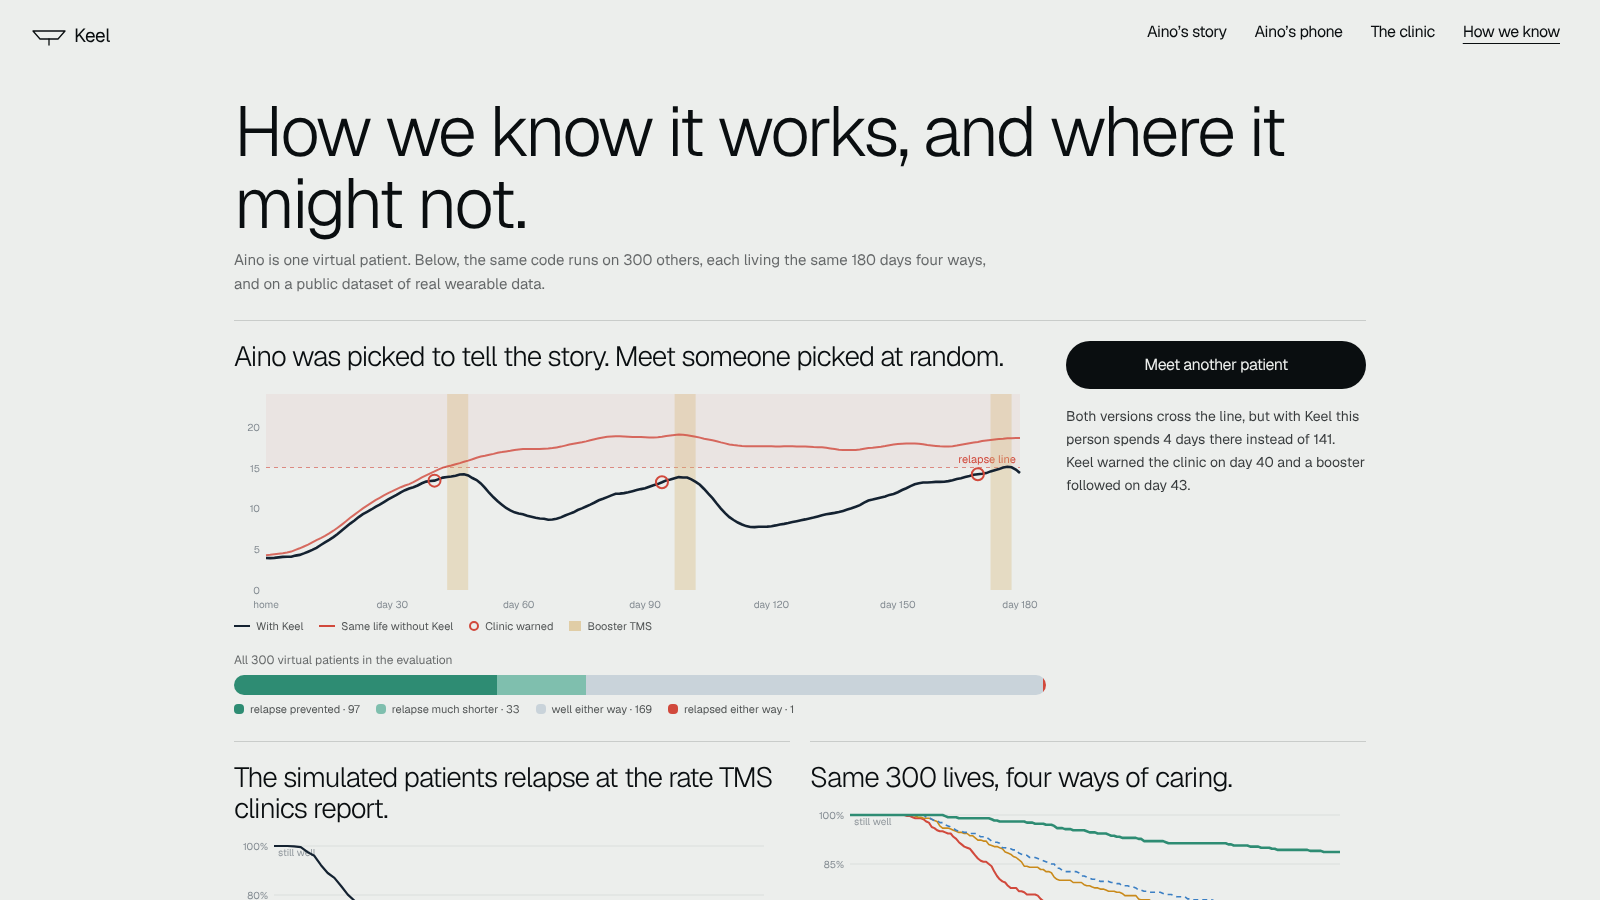
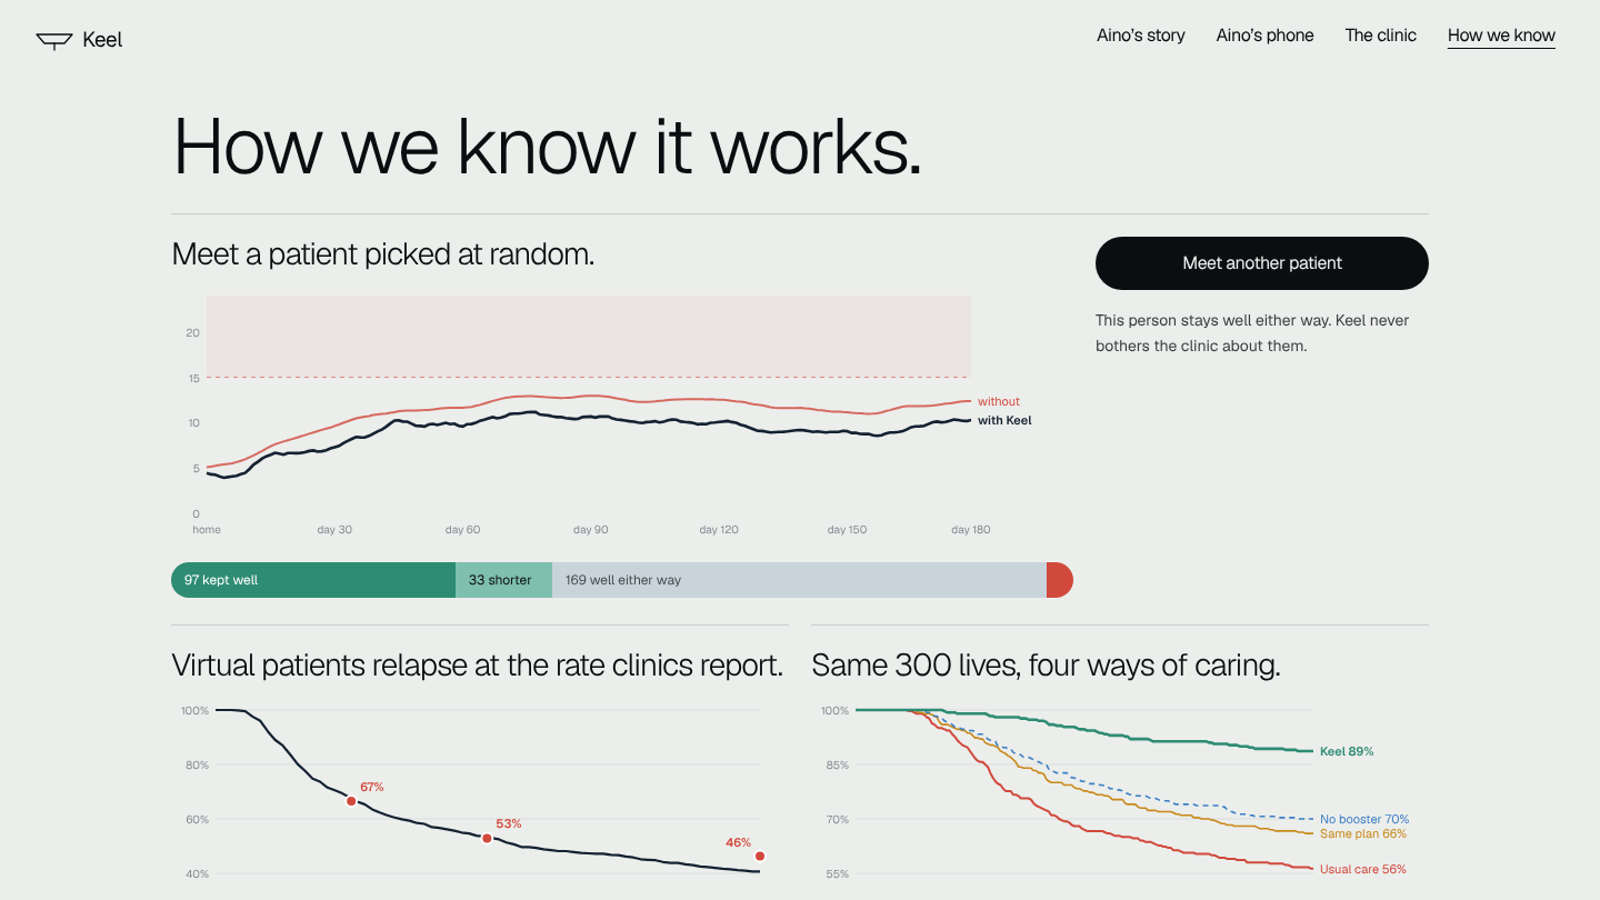
How we know: drop notes, legends and captions; label lines directly
Claude-Session: https://claude.ai/code/session_01YX7ZhujLr8GwJBjNSDXsE6

diff --git a/frontend/src/proof/ProofPage.tsx b/frontend/src/proof/ProofPage.tsx
@@ -30,72 +30,72 @@ export default function ProofPage() {
   const p = ev.policies
   return (
     <div className="mx-auto max-w-[1180px] px-6 py-8">
-      <h1 className="font-serif text-[clamp(2.4rem,5vw,4.4rem)] leading-[1.02]">How we know it works, and where it might not.</h1>
-      <p className="mt-2 max-w-[48rem] text-[15px] leading-relaxed text-ink/60">
-        Aino is one virtual patient. Below, the same code runs on {ev.n_patients} others, each living the same {ev.days} days
-        four ways, and on a public dataset of real wearable data.
-      </p>
+      <h1 className="font-serif text-[clamp(2.4rem,5vw,4.4rem)] leading-[1.02]">How we know it works.</h1>
 
       <RollAPatient outcomes={e.outcomes} n={ev.n_patients} />
 
       <div className="mt-6 grid grid-cols-1 gap-5 lg:grid-cols-2">
-        <Card title="The simulated patients relapse at the rate TMS clinics report."
-          note={`With no home support, the virtual cohort is fit to the rTMS durability meta-analysis (${e.calibration.source.split(' (')[0]}). Dots are the published figures. The model matches at 3 and 6 months and is slightly too pessimistic at 12; the demo only uses the first 6.`}>
+        <Card title="Virtual patients relapse at the rate clinics report.">
           <Chart xMax={365} yMin={0.2} yMax={1} yFmt={(v) => `${Math.round(v * 100)}%`} xTicks={[0, 91, 182, 273, 365]} xFmt={(d) => (d === 0 ? 'discharge' : `${Math.round(d / 30.4)} mo`)}
             series={[{ xs: e.calibration.days, ys: e.calibration.model, color: INK, width: 2.2, label: 'Virtual patients, no support' }]}
             dots={e.calibration.published.slice(1).map((d) => ({ x: d.day, y: d.value, color: STORM, label: `${Math.round(d.value * 100)}%` }))}
-            yLabel="still well" />
+            endLabels />
         </Card>
 
-        <Card title={`Same ${ev.n_patients} lives, four ways of caring.`}
-          note="Each virtual patient meets the same stress on the same days in every version. Most of Keel’s gain comes from timing booster TMS, not from the habits plan alone.">
+        <Card title={`Same ${ev.n_patients} lives, four ways of caring.`}>
           <Chart xMax={180} yMin={0.4} yMax={1} yFmt={(v) => `${Math.round(v * 100)}%`} xTicks={[0, 30, 60, 90, 120, 150, 180]} xFmt={(d) => `day ${d}`}
             series={[
-              { xs: e.days, ys: e.survival.none, color: STORM, width: 2, label: `Usual care · ${Math.round(p.none.relapse_free_180 * 100)}%` },
-              { xs: e.days, ys: e.survival.fixed, color: SQUALL, width: 1.6, label: `Same plan for all · ${Math.round(p.fixed.relapse_free_180 * 100)}%` },
-              { xs: e.days, ys: e.survival.keel_plan, color: BODY, width: 1.6, dash: '5 4', label: `Keel plan, no booster · ${Math.round(p.keel_plan.relapse_free_180 * 100)}%` },
-              { xs: e.days, ys: e.survival.keel, color: CALM, width: 2.6, label: `Keel · ${Math.round(p.keel.relapse_free_180 * 100)}%` },
-            ]} yLabel="still well" legend />
+              { xs: e.days, ys: e.survival.none, color: STORM, width: 2, label: `Usual care ${Math.round(p.none.relapse_free_180 * 100)}%` },
+              { xs: e.days, ys: e.survival.fixed, color: SQUALL, width: 1.6, label: `Same plan ${Math.round(p.fixed.relapse_free_180 * 100)}%` },
+              { xs: e.days, ys: e.survival.keel_plan, color: BODY, width: 1.6, dash: '5 4', label: `No booster ${Math.round(p.keel_plan.relapse_free_180 * 100)}%` },
+              { xs: e.days, ys: e.survival.keel, color: CALM, width: 2.6, label: `Keel ${Math.round(p.keel.relapse_free_180 * 100)}%` },
+            ]} endLabels />
         </Card>
 
-        <Card title={`The warning comes about ${ev.forecast.median_warning_days_keel} days ahead, a week earlier than asking alone.`}
-          note={`Days between the first warning and the relapse, for the untreated patients who relapsed, at the same 10 % false-alarm rate. Ring + check-ins vs check-ins alone (AUC ${ev.forecast.auc_14d_keel.toFixed(2)} vs ${ev.forecast.auc_14d_checkin_only.toFixed(2)}).`}>
+        <Card title={`Warnings come ${ev.forecast.median_warning_days_keel} days ahead, a week earlier than asking alone.`}>
           <LeadHistogram keel={e.lead_days.keel} checkin={e.lead_days.checkin_only} />
         </Card>
 
-        <Card title="It learns what helps each person."
-          note="How often Keel’s two favourite doses for a person are among that person’s real top three. At day 0 everyone gets the population guess.">
+        <Card title="It learns what helps each person.">
           <Chart xMax={180} yMin={0.5} yMax={0.9} yFmt={(v) => `${Math.round(v * 100)}%`} xTicks={[0, 30, 60, 90, 120, 150, 180]} xFmt={(d) => `day ${d}`}
-            series={[{ xs: e.learning_curve.days, ys: e.learning_curve.top2_in_top3, color: CALM, width: 2.4, label: 'Keel, learning from each person' }]}
+            series={[{ xs: e.learning_curve.days, ys: e.learning_curve.top2_in_top3, color: CALM, width: 2.4, label: 'Keel' }]}
             hline={{ y: e.learning_curve.top2_in_top3[0], label: 'one plan fits all', color: INK }}
             dots={[{ x: 180, y: e.learning_curve.top2_in_top3[e.learning_curve.top2_in_top3.length - 1], color: CALM, label: `${Math.round(e.learning_curve.top2_in_top3[e.learning_curve.top2_in_top3.length - 1] * 100)}%` }]}
-            yLabel="picks right" />
+            />
         </Card>
       </div>
 
-      {ev.real_data && <RealData rd={ev.real_data} simAuc={ev.forecast.auc_14d_keel} />}
+      {ev.real_data && <RealData rd={ev.real_data} />}
     </div>
   )
 }
 
-function Card({ title, note, children }: { title: string; note: string; children: React.ReactNode }) {
+function Card({ title, children }: { title: string; children: React.ReactNode }) {
   return (
     <section className="border-t border-ink/15 pt-5">
       <h2 className="font-serif text-[28px] leading-[1.1]">{title}</h2>
-      <div className="mt-3">{children}</div>
-      <p className="mt-2 text-[12px] leading-snug text-ink/55">{note}</p>
+      <div className="mt-4">{children}</div>
     </section>
   )
 }
 
+/** Nudge label positions apart so none overlap. */
+function spread(ys: number[], gap: number) {
+  const idx = ys.map((v, i) => [v, i] as const).sort((a, b) => a[0] - b[0])
+  const out = [...ys]
+  let last = -Infinity
+  for (const [v, i] of idx) { const nv = Math.max(v, last + gap); out[i] = nv; last = nv }
+  return out
+}
+
 type Series = { xs: number[]; ys: number[]; color: string; width?: number; dash?: string; label: string }
-function Chart({ series, dots = [], hline, xMax, yMin, yMax, yFmt, xTicks, xFmt, yLabel, legend = false, height = 230 }: {
+function Chart({ series, dots = [], hline, xMax, yMin, yMax, yFmt, xTicks, xFmt, endLabels = false, height = 230 }: {
   series: Series[]; dots?: { x: number; y: number; color: string; label?: string }[]; hline?: { y: number; label: string; color: string }
-  xMax: number; yMin: number; yMax: number; yFmt: (v: number) => string; xTicks: number[]; xFmt: (v: number) => string; yLabel?: string; legend?: boolean; height?: number
+  xMax: number; yMin: number; yMax: number; yFmt: (v: number) => string; xTicks: number[]; xFmt: (v: number) => string; endLabels?: boolean; height?: number
 }) {
   const [ref, { width }] = useSize<HTMLDivElement>()
   const W = Math.max(width, 10), H = height
-  const m = { l: 40, r: 26, t: 10, b: 24 }
+  const m = { l: 40, r: endLabels && series.length > 1 ? 104 : 26, t: 10, b: 24 }
   const x = lin(0, xMax, m.l, W - m.r)
   const y = lin(yMin, yMax, H - m.b, m.t)
   const yTicks = Array.from({ length: 5 }, (_, i) => yMin + ((yMax - yMin) * i) / 4)
@@ -110,7 +110,6 @@ function Chart({ series, dots = [], hline, xMax, yMin, yMax, yFmt, xTicks, xFmt,
             </g>
           ))}
           {xTicks.map((v) => <text key={v} x={x(v)} y={H - 6} textAnchor="middle" fontSize={10} fill={INK} fillOpacity={0.5}>{xFmt(v)}</text>)}
-          {yLabel && <text x={m.l + 4} y={m.t + 10} fontSize={10} fill={INK} fillOpacity={0.45}>{yLabel}</text>}
           {hline && (
             <g>
               <line x1={m.l} x2={W - m.r} y1={y(hline.y)} y2={y(hline.y)} stroke={hline.color} strokeOpacity={0.5} strokeDasharray="4 4" />
@@ -120,18 +119,16 @@ function Chart({ series, dots = [], hline, xMax, yMin, yMax, yFmt, xTicks, xFmt,
           {series.map((s) => (
             <path key={s.label} d={pathOf(s.xs.map((d, i) => [x(d), y(Math.max(yMin, s.ys[i]))]))} fill="none" stroke={s.color} strokeWidth={s.width ?? 2} strokeDasharray={s.dash} strokeLinejoin="round" />
           ))}
+          {endLabels && series.length > 1 && spread(series.map((s) => y(Math.max(yMin, s.ys[s.ys.length - 1]))), 13).map((yy, i) => (
+            <text key={i} x={W - m.r + 6} y={yy + 4} fontSize={11} fontWeight={series[i].width && series[i].width! > 2.2 ? 600 : 400} fill={series[i].color}>{series[i].label}</text>
+          ))}
           {dots.map((d, i) => (
             <g key={i}>
               <circle cx={x(d.x)} cy={y(d.y)} r={5} fill={d.color} stroke="white" strokeWidth={2} />
-              {d.label && <text x={x(d.x) - 8} y={y(d.y) - 9} textAnchor="end" fontSize={11} fontWeight={600} fill={d.color}>{d.label}</text>}
+              {d.label && <text x={x(d.x) + (x(d.x) > W - m.r - 30 ? -8 : 8)} y={y(d.y) - 9} textAnchor={x(d.x) > W - m.r - 30 ? 'end' : 'start'} fontSize={11} fontWeight={600} fill={d.color}>{d.label}</text>}
             </g>
           ))}
         </svg>
-      )}
-      {legend && (
-        <div className="mt-1 flex flex-wrap gap-x-4 gap-y-1 text-[11px] text-ink/70">
-          {series.map((s) => <span key={s.label} className="inline-flex items-center gap-1.5"><i className="inline-block h-0.5 w-4" style={{ background: s.color }} />{s.label}</span>)}
-        </div>
       )}
     </div>
   )
@@ -159,46 +156,36 @@ function LeadHistogram({ keel, checkin }: { keel: number[]; checkin: number[] })
               <rect x={x(b) + 1 + bw + 1} y={y(ck[i])} width={bw} height={y(0) - y(ck[i])} fill={CALM} />
             </g>
           ))}
-          {[0, 12, 24, 36, 48, 60].map((v) => <text key={v} x={x(v)} y={H - 6} textAnchor="middle" fontSize={10} fill={INK} fillOpacity={0.5}>{v === 60 ? '60+ days' : v}</text>)}
+          {[0, 12, 24, 36, 48, 60].map((v) => <text key={v} x={x(v)} y={H - 6} textAnchor="middle" fontSize={10} fill={INK} fillOpacity={0.5}>{v === 60 ? '60+' : v === 0 ? '0 days' : v}</text>)}
           {[{ v: med(checkin), c: INK, t: 'check-ins alone' }, { v: med(keel), c: CALM, t: 'Keel' }].map((q, i) => (
             <g key={q.t}>
               <line x1={x(q.v)} x2={x(q.v)} y1={m.t} y2={H - m.b} stroke={q.c} strokeDasharray="3 3" strokeOpacity={0.8} />
-              <text x={x(q.v) + (i ? 4 : -4)} y={m.t + 10} textAnchor={i ? 'start' : 'end'} fontSize={11} fill={q.c}>{q.t}: median {q.v} d</text>
+              <text x={x(q.v) + (i ? 4 : -4)} y={m.t + 10} textAnchor={i ? 'start' : 'end'} fontSize={11} fill={q.c}>{q.t} {q.v} days</text>
             </g>
           ))}
         </svg>
       )}
-      <div className="mt-1 flex gap-4 text-[11px] text-ink/70">
-        <span className="inline-flex items-center gap-1.5"><i className="inline-block h-2.5 w-2.5" style={{ background: CALM }} />Ring + check-ins (Keel)</span>
-        <span className="inline-flex items-center gap-1.5"><i className="inline-block h-2.5 w-2.5 opacity-40" style={{ background: INK }} />Check-ins alone</span>
-      </div>
     </div>
   )
 }
 
-function RealData({ rd, simAuc }: { rd: NonNullable<Evidence['real_data']>; simAuc: number }) {
+function RealData({ rd }: { rd: NonNullable<Evidence['real_data']> }) {
   const rows = [
-    { label: 'Chance', v: 0.5, c: '#b8c3cc' },
-    { label: 'Fitbit sleep and steps only', v: rd.auc['wearable only'], c: BODY },
-    { label: 'Mood questionnaire today only', v: rd.auc['PHQ-9 now only'], c: '#e6ecef' },
+    { label: 'Wearable only', v: rd.auc['wearable only'], c: BODY },
+    { label: 'Questionnaire only', v: rd.auc['PHQ-9 now only'], c: '#e6ecef' },
     { label: 'Both', v: rd.auc['wearable + PHQ-9 now'], c: CALM },
   ]
   return (
     <section className="mt-10 grid grid-cols-1 gap-8 bg-ink p-10 text-fog lg:grid-cols-[1fr_1.1fr]">
       <div>
         <h2 className="font-serif text-[34px] leading-[1.08]">Checked against real people, the ring alone is weak.</h2>
-        <p className="mt-3 text-[14px] leading-relaxed text-fog/75">
-          PSYCHE-D: {rd.n_samples.toLocaleString('en')} three-month stretches from {rd.n_participants.toLocaleString('en')} people with consumer
-          wearables who were not depressed at the start. Who is depressed three months later? Two weeks of sleep and step data
-          barely beat a coin flip. The simulator’s {simAuc.toFixed(2)} is an upper bound.
-        </p>
-        <p className="mt-3 text-[14px] leading-relaxed text-fog/75">
-          That is why Keel compares each person with their own normal instead of with the population, looks two weeks ahead
-          instead of three months, always pairs the ring with a one-minute check-in, and lets the clinician decide.
+        <p className="mt-4 text-[15px] leading-relaxed text-fog/75">
+          In {rd.n_participants.toLocaleString('en')} people with consumer wearables, sleep and steps barely beat a coin flip at
+          spotting who becomes depressed. So Keel compares each person with their own normal, looks two weeks ahead, and always
+          pairs the ring with a check-in.
         </p>
       </div>
       <div className="self-center">
-        <div className="mb-2 text-[12px] text-fog/60">How well each input tells who gets worse (AUC; 0.5 = coin flip, 1 = perfect)</div>
         {rows.map((r) => (
           <div key={r.label} className="mb-2.5">
             <div className="mb-1 flex justify-between text-[13px]"><span className="text-fog/85">{r.label}</span><span className="font-medium tabular-nums">{r.v.toFixed(2)}</span></div>
@@ -208,7 +195,6 @@ function RealData({ rd, simAuc }: { rd: NonNullable<Evidence['real_data']>; simA
             </div>
           </div>
         ))}
-        <div className="text-[11px] text-fog/50">Grouped 5-fold cross-validation by person. Makhmutova et al. 2021, Zenodo 5085146.</div>
       </div>
     </section>
   )
@@ -218,19 +204,16 @@ function RollAPatient({ outcomes, n }: { outcomes: Evidence['evidence']['outcome
   const [seed, setSeed] = useState(() => Math.floor(Math.random() * 100000))
   const [pair, setPair] = useState<Pair | null>(null)
   const [busy, setBusy] = useState(false)
-  const [tally, setTally] = useState<Record<string, number>>({})
   const roll = async (s: number) => {
     setBusy(true)
     const r: Pair = await fetch(`/api/simulate?seed=${s}`).then((x) => x.json())
     setPair(r); setBusy(false)
-    setTally((t) => ({ ...t, [r.outcome]: (t[r.outcome] ?? 0) + 1 }))
   }
   useEffect(() => { roll(seed) }, []) // eslint-disable-line react-hooks/exhaustive-deps
-  const met = Object.values(tally).reduce((a, b) => a + b, 0)
   return (
     <section className="mt-6 grid grid-cols-1 gap-5 border-t border-ink/15 pt-5 lg:grid-cols-[1fr_300px]">
       <div>
-        <h2 className="font-serif text-[28px] leading-[1.1]">Aino was picked to tell the story. Meet someone picked at random.</h2>
+        <h2 className="font-serif text-[28px] leading-[1.1]">Meet a patient picked at random.</h2>
         <div className="mt-3">{pair ? <PairChart pair={pair} /> : <div className="h-[230px]" />}</div>
         <OutcomeBar outcomes={outcomes} n={n} />
       </div>
@@ -238,33 +221,26 @@ function RollAPatient({ outcomes, n }: { outcomes: Evidence['evidence']['outcome
         <button disabled={busy} onClick={() => { const s = seed + 1; setSeed(s); roll(s) }}
           className="rounded-full bg-ink px-6 py-3 text-[16px] tracking-[-0.03em] text-fog disabled:opacity-60">{busy ? 'Living 180 days twice…' : 'Meet another patient'}</button>
         {pair && <p className="mt-4 text-[14px] leading-relaxed text-ink/80">{verdict(pair)}</p>}
-        {met > 1 && (
-          <div className="mt-auto pt-4 text-[12px] text-ink/60">
-            You have met {met}. Kept well by Keel: {tally.kept_well ?? 0}. Relapse much shorter: {tally.shorter ?? 0}. Well either way: {tally.well_anyway ?? 0}. Relapsed either way: {(tally.relapsed_both ?? 0) + (tally.keel_worse ?? 0)}.
-          </div>
-        )}
       </div>
     </section>
   )
 }
 
 const OUT = [
-  { k: 'kept_well', label: 'relapse prevented', c: CALM },
-  { k: 'shorter', label: 'relapse much shorter', c: '#7fbfae' },
-  { k: 'well_anyway', label: 'well either way', c: '#c9d3da' },
-  { k: 'relapsed_both', label: 'relapsed either way', c: STORM },
+  { k: 'kept_well', label: 'kept well', c: CALM, t: 'text-white' },
+  { k: 'shorter', label: 'shorter', c: '#7fbfae', t: 'text-ink' },
+  { k: 'well_anyway', label: 'well either way', c: '#c9d3da', t: 'text-ink/70' },
+  { k: 'relapsed_both', label: 'relapsed', c: STORM, t: 'text-white' },
 ] as const
 
 function OutcomeBar({ outcomes, n }: { outcomes: Evidence['evidence']['outcomes']; n: number }) {
   return (
-    <div className="mt-4">
-      <div className="mb-1.5 text-[12px] text-ink/60">All {n} virtual patients in the evaluation</div>
-      <div className="flex h-5 overflow-hidden rounded-full">
-        {OUT.map((o) => outcomes[o.k] > 0 && <div key={o.k} style={{ width: `${(outcomes[o.k] / n) * 100}%`, background: o.c }} title={`${o.label}: ${outcomes[o.k]}`} />)}
-      </div>
-      <div className="mt-1.5 flex flex-wrap gap-x-4 gap-y-1 text-[11px] text-ink/70">
-        {OUT.map((o) => <span key={o.k} className="inline-flex items-center gap-1.5"><i className="inline-block h-2.5 w-2.5 rounded-sm" style={{ background: o.c }} />{o.label} · {outcomes[o.k]}</span>)}
-      </div>
+    <div className="mt-5 flex h-8 overflow-hidden rounded-full text-[12px]" title={`All ${n} virtual patients`}>
+      {OUT.map((o) => outcomes[o.k] > 0 && (
+        <div key={o.k} className={`flex items-center overflow-hidden whitespace-nowrap px-3 ${o.t}`} style={{ width: `${(outcomes[o.k] / n) * 100}%`, background: o.c }} title={`${o.label}: ${outcomes[o.k]}`}>
+          {outcomes[o.k] / n > 0.08 && <>{outcomes[o.k]} {o.label}</>}
+        </div>
+      ))}
     </div>
   )
 }
@@ -283,30 +259,26 @@ function verdict(p: Pair) {
 function PairChart({ pair }: { pair: Pair }) {
   const [ref, { width }] = useSize<HTMLDivElement>()
   const W = Math.max(width, 10), H = 230
-  const m = { l: 32, r: 26, t: 10, b: 24 }
+  const m = { l: 32, r: 92, t: 10, b: 24 }
   const x = lin(0, 179, m.l, W - m.r)
   const y = lin(0, 24, H - m.b, m.t)
+  const [yk, yn] = spread([y(Math.min(24, pair.keel.phq7[179])), y(Math.min(24, pair.none.phq7[179]))], 14)
   return (
     <div ref={ref}>
       {width > 60 && (
         <svg width={W} height={H} className="block">
           <rect x={m.l} y={m.t} width={W - m.l - m.r} height={y(15) - m.t} fill={STORM} opacity={0.06} />
           <line x1={m.l} x2={W - m.r} y1={y(15)} y2={y(15)} stroke={STORM} strokeDasharray="4 4" strokeOpacity={0.6} />
-          <text x={W - m.r - 4} y={y(15) - 5} textAnchor="end" fontSize={11} fill={STORM}>relapse line</text>
           {[0, 5, 10, 15, 20].map((v) => <text key={v} x={m.l - 6} y={y(v) + 4} textAnchor="end" fontSize={10} fill={INK} fillOpacity={0.5}>{v}</text>)}
           {[0, 30, 60, 90, 120, 150, 179].map((v) => <text key={v} x={x(v)} y={H - 6} textAnchor="middle" fontSize={10} fill={INK} fillOpacity={0.5}>{v === 0 ? 'home' : `day ${v === 179 ? 180 : v}`}</text>)}
           {pair.keel.boosters.map((b) => <rect key={b} x={x(b)} y={m.t} width={Math.max(3, x(b + 5) - x(b))} height={H - m.b - m.t} fill="#d9b878" opacity={0.35} />)}
           <path d={pathOf(pair.none.phq7.map((v, i) => [x(i), y(Math.min(24, v))]))} fill="none" stroke={STORM} strokeWidth={2} strokeOpacity={0.8} />
           <path d={pathOf(pair.keel.phq7.map((v, i) => [x(i), y(Math.min(24, v))]))} fill="none" stroke={INK} strokeWidth={2.6} />
           {pair.keel.alerts.map((a) => <circle key={a} cx={x(a)} cy={y(Math.min(24, pair.keel.phq7[a]))} r={6} fill="none" stroke={STORM} strokeWidth={2} />)}
+          <text x={W - m.r + 6} y={yk + 4} fontSize={11} fontWeight={600} fill={INK}>with Keel</text>
+          <text x={W - m.r + 6} y={yn + 4} fontSize={11} fill={STORM}>without</text>
         </svg>
       )}
-      <div className="mt-1 flex flex-wrap gap-4 text-[11px] text-ink/70">
-        <span className="inline-flex items-center gap-1.5"><i className="inline-block h-0.5 w-4" style={{ background: INK }} />With Keel</span>
-        <span className="inline-flex items-center gap-1.5"><i className="inline-block h-0.5 w-4" style={{ background: STORM }} />Same life without Keel</span>
-        <span className="inline-flex items-center gap-1.5"><i className="inline-block h-2.5 w-2.5 rounded-full border-2" style={{ borderColor: STORM }} />Clinic warned</span>
-        <span className="inline-flex items-center gap-1.5"><i className="inline-block h-2.5 w-3" style={{ background: '#d9b878', opacity: 0.6 }} />Booster TMS</span>
-      </div>
     </div>
   )
 }
